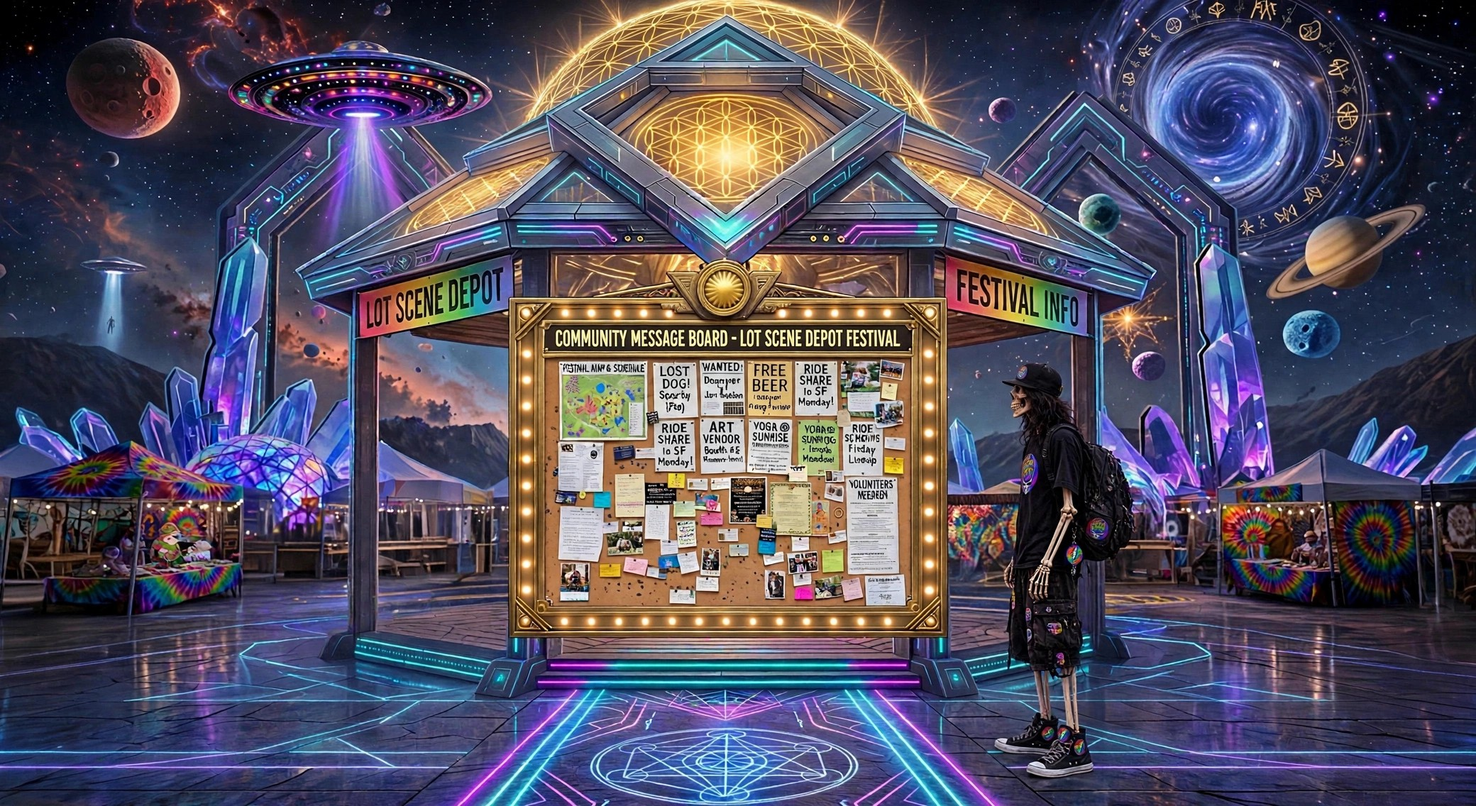
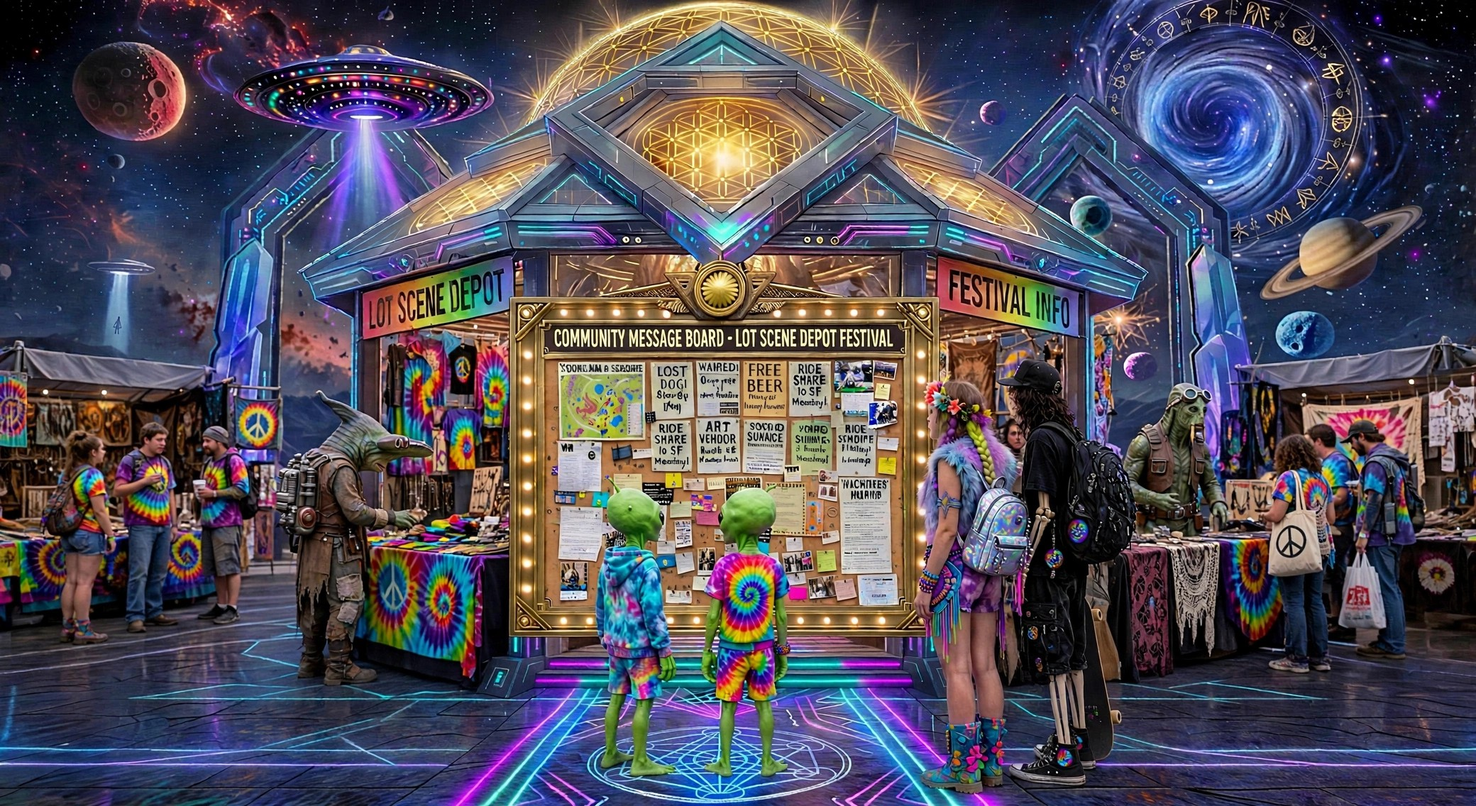
Board: Cantina hero, Founder Post label, no long rules list, short Join rules

diff --git a/board/index.html b/board/index.html
@@ -95,20 +95,6 @@
     <small>No Facebook, no approval wait. Do the questionnaire and agree to the rules, then post and comment freely — banned only if you break the rules after a warning.</small></div>
   </section>
 
-  <section class="card">
-    <h2>How this board works</h2>
-    <ol>
-      <li><strong>Fill in the questionnaire and agree to the rules.</strong> Name, handle, why you want in, contact (optional), tick that you agree to the rules — that's it, no Facebook, no proof.</li>
-      <li><strong>You're in — no approval wait after that.</strong> Once you've done the questionnaire and agreement, you post and comment with just your handle, right away.</li>
-      <li><strong>Break the rules and you're warned, then banned.</strong> If you post gross/vulgar stuff, bigotry, political stuff, or violence, you'll be asked to stop / warned. Do it again after a warning and you will be banned — posts taken down, no more posting.</li>
-    </ol>
-    <h3>What belongs here</h3>
-    <p>Open — and it does <em>not</em> have to be lot-related: events, ideas, stories, something that happened to you, funny rants, networking, partnering up, and services. This is a real-life community board, meant to bring people together — food drives, somebody giving out stuff at Christmas to people who are homeless, community help, things like that. Advertisements are allowed as long as they're related to the counterculture.</p>
-    <h3>What does not belong here</h3>
-    <p><strong>No vulgar or wacky stuff, nothing gross or offensive, no bigotry, no political content, and no violence.</strong> If you do one of those things, you'll be asked to stop / warned. If you do it again after you've been warned, you will be banned — your posts come down and you can't post again.</p>
-    <div class="note" id="backend-note"><b>Board status:</b> checking the board backend…</div>
-  </section>
-
   <div class="gazebo-roof"></div><div class="gazebo-beam"></div><div class="gazebo-lights">● ● ● ● ● ● ●</div>
   <section class="card">
     <h2>📌 Community Message Board — last post in each topic</h2>
@@ -125,7 +111,7 @@
       <button class="chip" data-cat="Services">Services</button>
       <button class="chip" data-cat="Lot o Love">Lot o Love</button>
     </div>
-    <div class="headliner" id="headliner"><h3>⭐ Headliner — WooKzZz</h3><div id="headliner-posts"><p class="meta">Loading headliner…</p></div></div>
+    <div class="headliner" id="headliner"><h3>⭐ Founder Post — WooKzZz</h3><div id="headliner-posts"><p class="meta">Loading headliner…</p></div></div>
     <div class="board-frame"><div id="posts" class="corkboard"><p class="empty">Loading the board…</p></div></div>
   </section>
 
@@ -138,19 +124,13 @@
   <section class="card" id="join">
     <h2>Join &amp; Post</h2>
     <h3>1. Join the board — read the rules, agree, apply</h3>
-    <div class="note"><b>Board rules — agree to these to join:</b>
-      <ul>
-        <li>No gross/offensive stuff, no vulgar stuff, no bigotry, no political stuff, no violence.</li>
-        <li>If you do one of those things, you'll be asked to stop / warned. Do it again after a warning and you will be banned.</li>
-        <li>Once you've done the questionnaire and agreement, your posts go up right away — no approval wait.</li>
-      </ul>
-    </div>
+    <p class="meta">Board rules, short version: No gross/offensive, vulgar, bigotry, political, or violence. Warned first, banned if you do it again after a warning.</p>
     <form id="apply-form">
       <label>Display name <input name="display_name" required maxlength="60"></label>
       <label>Handle (letters, numbers, _ . -) <input name="handle" required maxlength="30"></label>
       <label>Why do you want in? <textarea name="why" required maxlength="1000" rows="3"></textarea></label>
       <label>Contact (private — only WooKzZz sees this) <input name="contact" maxlength="200" placeholder="Email or handle, optional"></label>
-      <label><input type="checkbox" name="agree_rules" required style="width:auto"> I agree to the board rules above</label>
+      <label><input type="checkbox" name="agree_rules" required style="width:auto"> I agree to the board rules</label>
       <button class="primary" type="submit">Request to join</button>
       <p class="meta" id="apply-msg"></p>
     </form>
